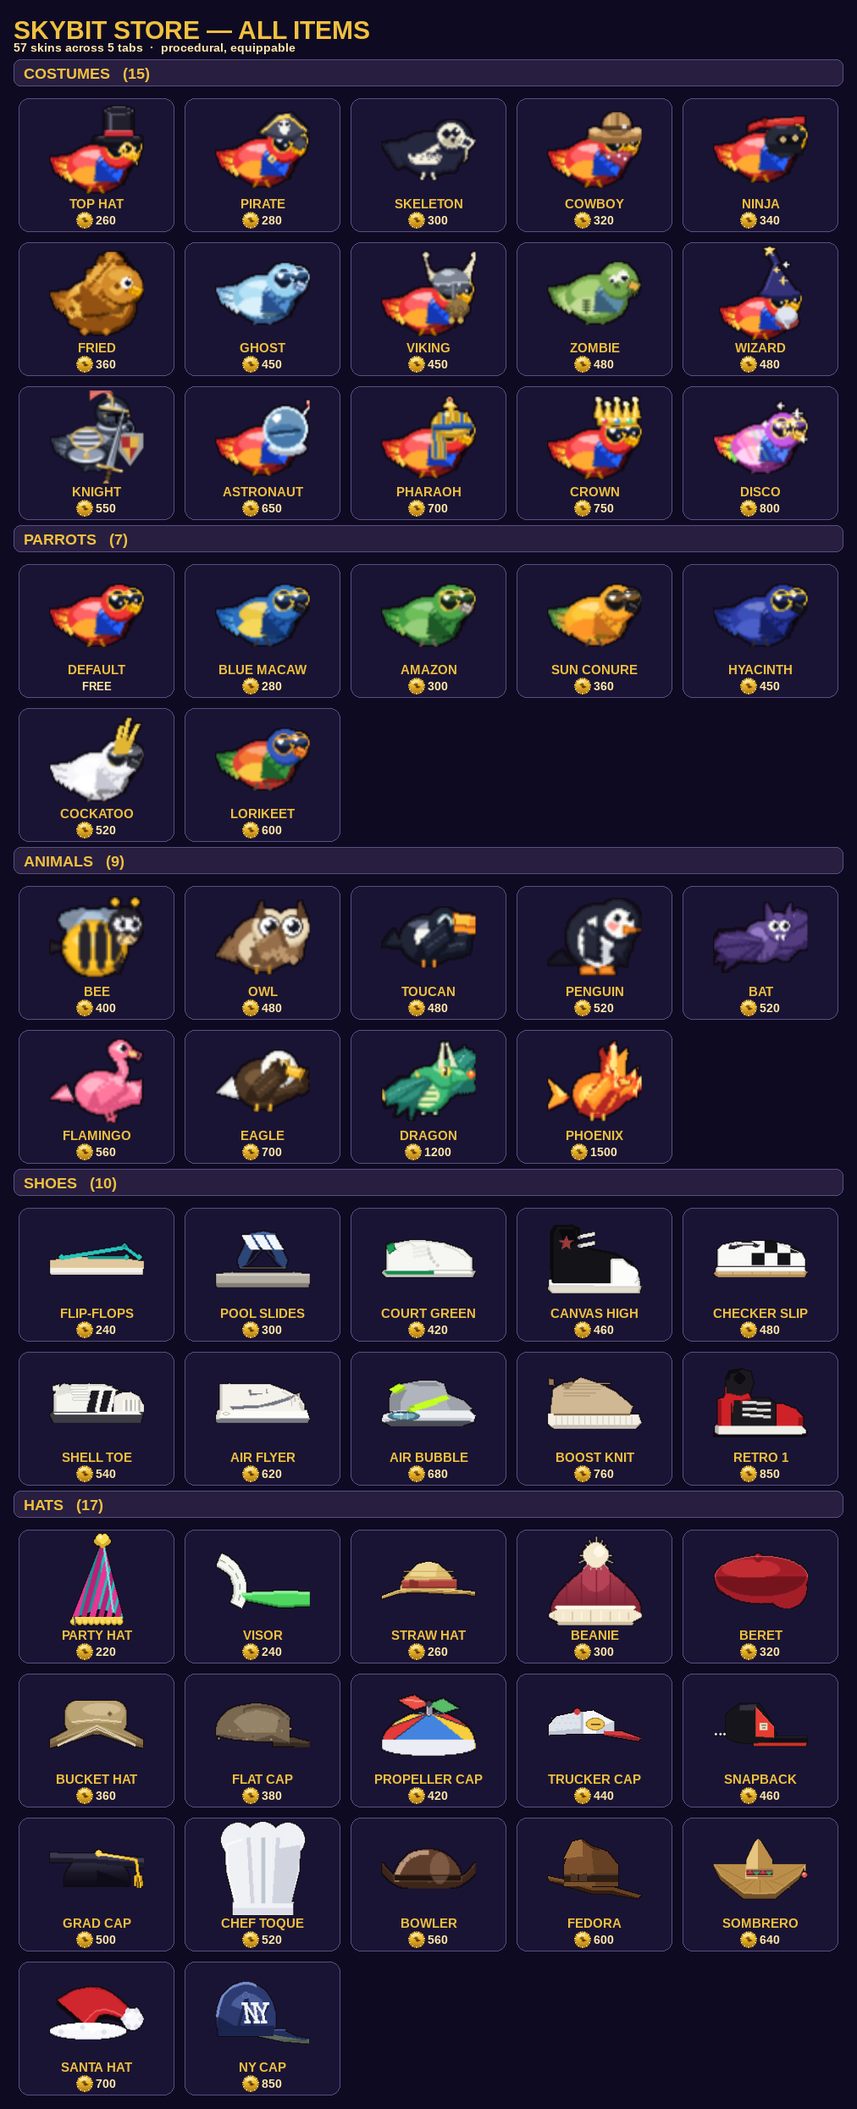
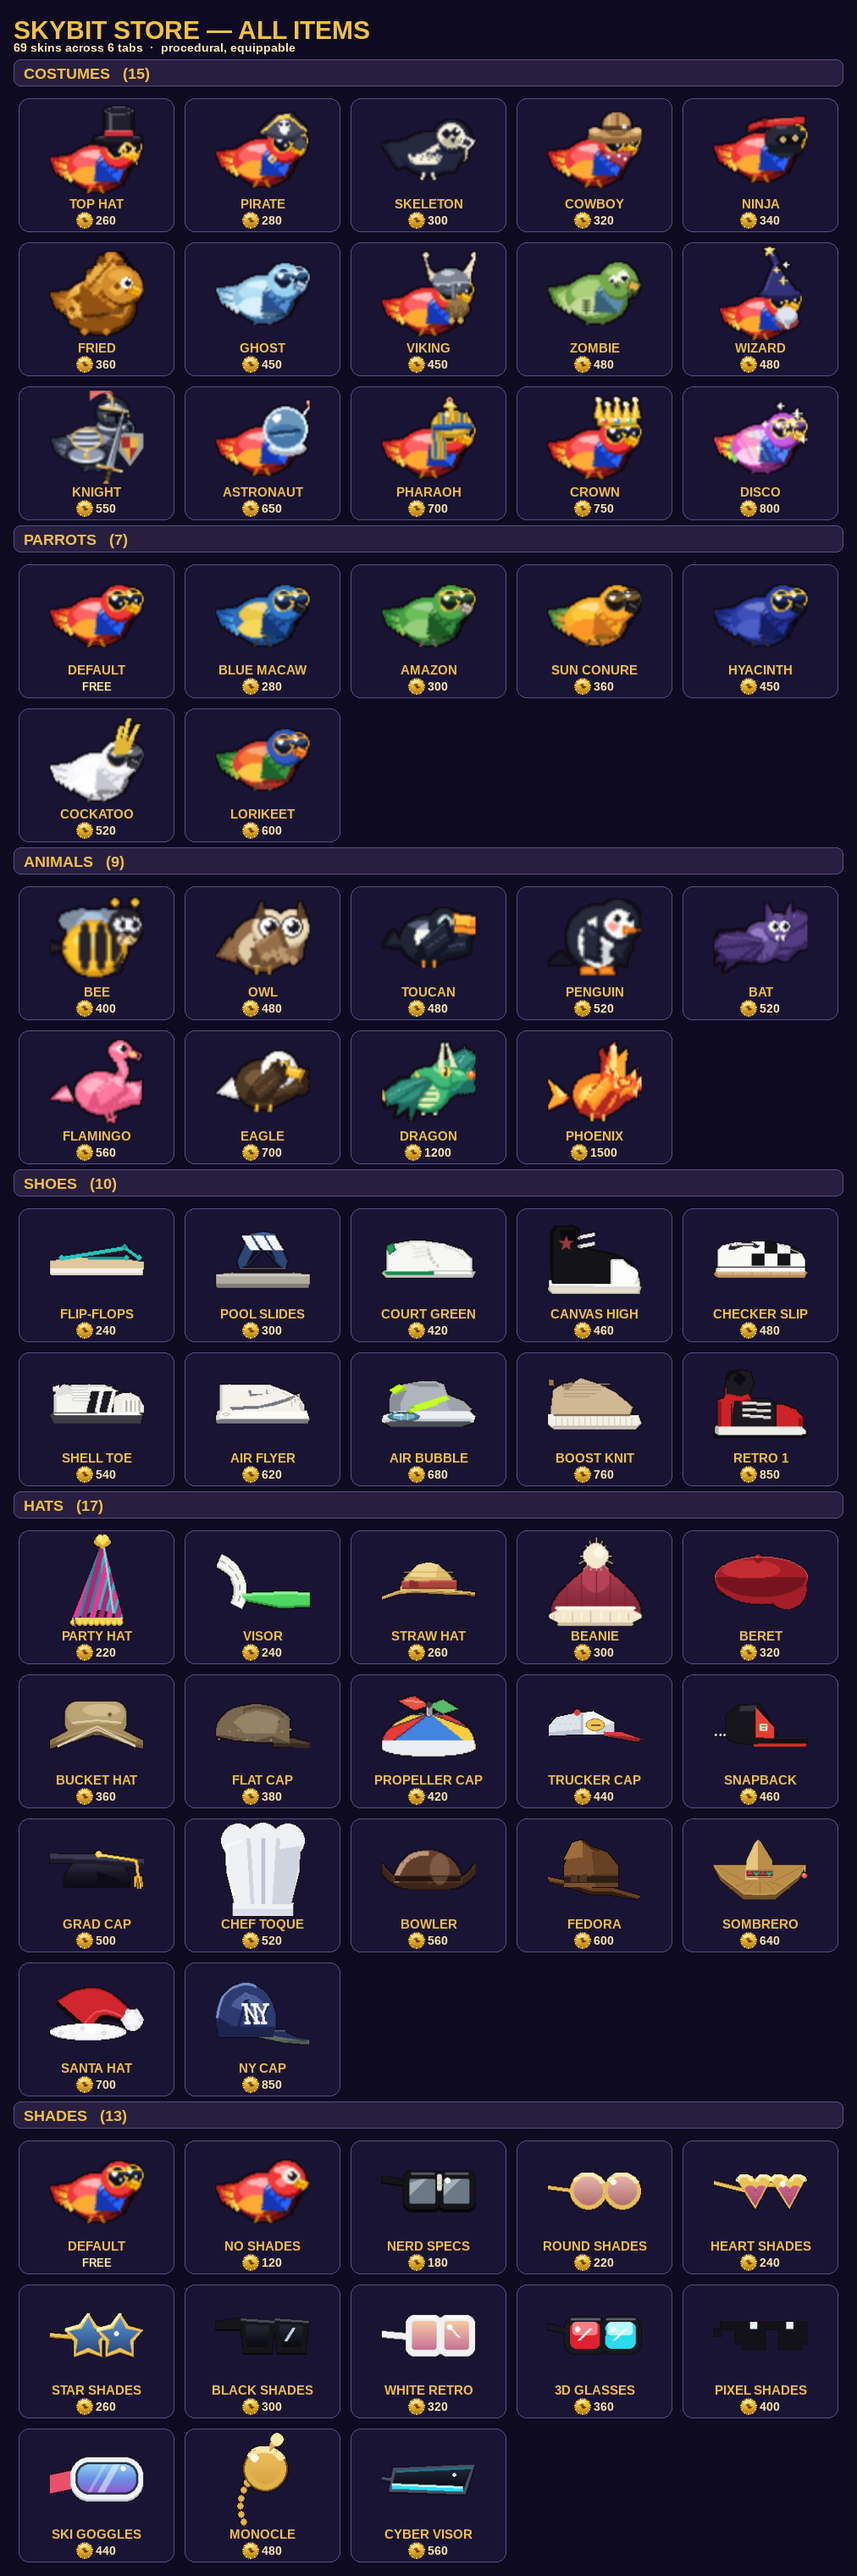
docs(store): add SHADES section to gallery (69 skins / 6 tabs) + README

diff --git a/docs/store/render_gallery.py b/docs/store/render_gallery.py
@@ -32,9 +32,10 @@ CARD_RIM = (90, 78, 130)
 # Group → ordered ids (DEFAULT fronts the parrots, like the live store).
 SECTIONS = []
 for label, g in (("COSTUMES", "costume"), ("PARROTS", "parrot"),
-                 ("ANIMALS", "animal"), ("SHOES", "shoes"), ("HATS", "hats")):
+                 ("ANIMALS", "animal"), ("SHOES", "shoes"), ("HATS", "hats"),
+                 ("SHADES", "shades")):
     ids = sorted(store_catalog.ids_of_group(g), key=store_catalog.cost)
-    if g == "parrot":
+    if g in ("parrot", "shades"):
         ids = [store_catalog.BASE_SKIN] + ids
     SECTIONS.append((label, ids))
 

diff --git a/docs/store/README.md b/docs/store/README.md
@@ -1,11 +1,13 @@
 # Skybit Store — all items
 
-Every cosmetic in the coin Store, in one figure: **57 equippable skins** plus the
+Every cosmetic in the coin Store, in one figure: **69 equippable skins** plus the
 free **DEFAULT** macaw, grouped by the store's tabs (COSTUMES / PARROTS /
-ANIMALS / SHOES / HATS) with each item's name and coin cost. All art is procedural
-(drawn from code). Costume/parrot/animal skins animate over the bird's 4 wing
-frames; the shoes and hats are shown by their product-shot icon (the item
-itself), and Pip wears them — shoes on his feet, hats on his head — in-game.
+ANIMALS / SHOES / HATS / SHADES) with each item's name and coin cost. All art is
+procedural (drawn from code). Costume/parrot/animal skins animate over the bird's
+4 wing frames; the shoes, hats and shades are shown by their product-shot icon (the
+item itself), and Pip wears them — shoes on his feet, hats on his head, shades over
+his eyes — in-game. The SHADES tab also carries a **NO SHADES** option that removes
+Pip's default aviators for a bare-eyed look.
 
 ![All Skybit Store items](all_items.png)
 
@@ -19,9 +21,10 @@ The roster is data-driven: each item is a catalog entry in
 [`game/store_catalog.py`](../../game/store_catalog.py) plus a procedural builder
 in [`game/store_skins.py`](../../game/store_skins.py) (costumes + parrot species),
 [`game/animal_skins.py`](../../game/animal_skins.py) (animals),
-[`game/shoe_skins.py`](../../game/shoe_skins.py) (shoes), or
-[`game/hat_skins.py`](../../game/hat_skins.py) (hats), dispatched by
-`parrot.get_skin_frame` (and `parrot.get_skin_icon` for shoe/hat product shots).
-Design-loop records live in [`docs/store_skins/`](../store_skins),
-[`docs/creatures/`](../creatures), [`docs/shoes/`](../shoes), and
-[`docs/hats/`](../hats).
+[`game/shoe_skins.py`](../../game/shoe_skins.py) (shoes),
+[`game/hat_skins.py`](../../game/hat_skins.py) (hats), or
+[`game/glasses_skins.py`](../../game/glasses_skins.py) (shades), dispatched by
+`parrot.get_skin_frame` (and `parrot.get_skin_icon` for shoe/hat/shades product
+shots). Design-loop records live in [`docs/store_skins/`](../store_skins),
+[`docs/creatures/`](../creatures), [`docs/shoes/`](../shoes),
+[`docs/hats/`](../hats), and [`docs/shades/`](../shades).
